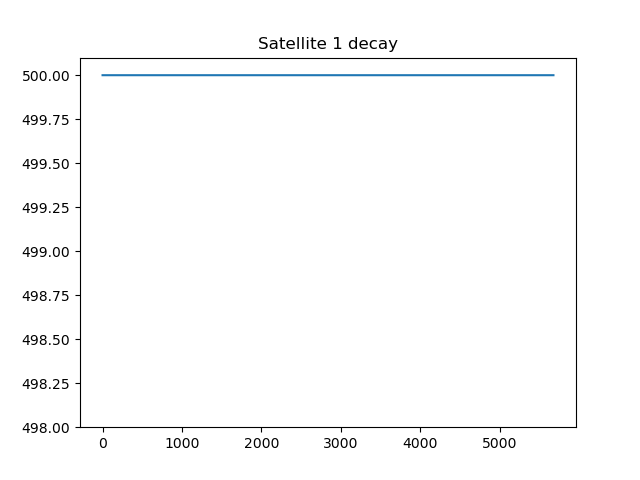
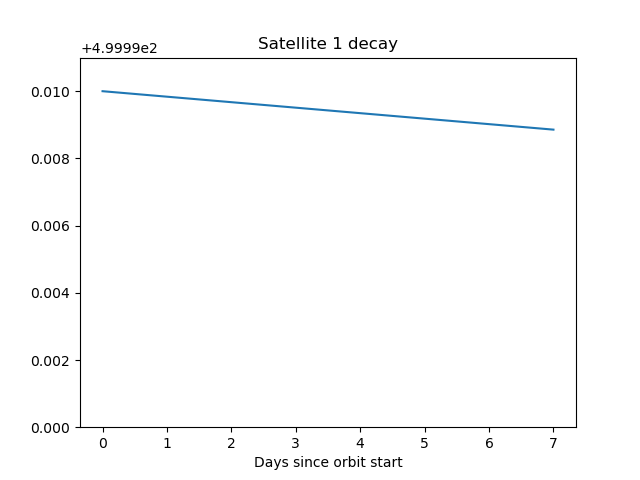
added velocity calculations and stuff

diff --git a/main.py b/main.py
@@ -28,12 +28,12 @@ earthMRadius = 6378
 # in m
 h = 500000
 sat2Velocity = sqrt(earthMu / (h / 1000 + earthMRadius)) + 0.001
-sat2Height = earthMu/(sat2Velocity**2)
+sat2Height = earthMu / (sat2Velocity ** 2)
 
 sat1 = Satellite(0.300, 0.300, 0.300, 30, h, sqrt(earthMu / (h / 1000 + earthMRadius)))
 sat2 = Satellite(0.300, 0.300, 0.300, 30, (sat2Height - earthMRadius) * 1000, sat2Velocity)
 
-print(sat2Height-earthMRadius)
+print(sat2Height - earthMRadius)
 
 
 def solve_kepler(M, e):
@@ -79,7 +79,7 @@ def orbitalLinearVelocity(h):
 def dragAcceleration(r, a, sat):
     assert isinstance(sat, Satellite)
 
-    altitude = r - earthMRadius * 1000 # Altitude (m)
+    altitude = r - earthMRadius * 1000  # Altitude (m)
     a2m = sat.area / sat.mass  # Area to mass ratio
     velocity = orbitalLinearVelocity(altitude)  # Velocity magnitude (m/s)
     atmDensity = Atmos.airDensity(altitude)  # Density (kg/m^3)
@@ -134,9 +134,9 @@ def calculate(sat):
     # cart_state = keplerToCartesian(orb_a, orb_e, orb_i, orb_rightA, orb_w, orb_m, earthMu)
     lifetime_flag = False
     total_duration = 0  # seconds
-    tstep = 60
+    tstep = 1
     current_altitude = orb_altitude
-    while lifetime_flag == False and total_duration < 60*60*24*33980.29:
+    while lifetime_flag == False and total_duration < 60 * 60 * 24 * 7:
         # update time step
         total_duration = total_duration + tstep
 
@@ -168,7 +168,6 @@ def calculate(sat):
             lifetime_flag = True
             lifetime = total_duration
 
-
     if lifetime_flag:
         lifetime_days = total_duration / 86400
         lifetime_orbits = total_duration / orbitPeriod(sat.height)
@@ -182,10 +181,12 @@ def calculate(sat):
 
     lifetime_orbits = total_duration / orbitPeriod(sat.height)
     # print("Lifetime orbits: " + str(lifetime_orbits))
-    print(total_duration/60/60/24)
+    print(total_duration / 60 / 60 / 24)
     return altitudes, mean_anomalies
 
 
+major_ticks = np.arange(0, 60 * 60 * 24 * 8, 60 * 60 * 24)
+major_labels = np.arange(0, 8, 1)
 
 print(str(sat1.velocity) + "km/s")
 print(str(sat2.velocity) + "km/s")
@@ -193,9 +194,11 @@ altitudesSat2, meanAnomaliesSat2 = calculate(sat2)
 
 plt.plot(altitudesSat2)
 print(altitudesSat2[-1])
-print(sat2.height/1000 - altitudesSat2[-1])
-plt.ylim(ymin=497, ymax=498.195)
+print(sat2.height / 1000 - altitudesSat2[-1])
+plt.ylim(ymin=498.18, ymax=498.195)
 plt.title("Satellite 2 decay")
+plt.xticks(major_ticks, labels=major_labels)
+plt.xlabel("Days since orbit start")
 plt.savefig("Sat2decay.png")
 plt.show()
 
@@ -203,15 +206,72 @@ altitudesSat1, meanAnomaliesSat1 = calculate(sat1)
 print(altitudesSat1[-1])
 print(sat1.height / 1000 - altitudesSat1[-1])
 plt.plot(altitudesSat1)
-plt.ylim(ymin=498, ymax=500.1)
+plt.ylim(ymin=499.99, ymax=500.001)
 plt.title("Satellite 1 decay")
+plt.xticks(major_ticks, labels=major_labels)
+plt.xlabel("Days since orbit start")
 plt.savefig("Sat1decay.png")
+# plt.xticks(minor_ticks, labels=None, minor=True)
 plt.show()
 
 plt.plot(meanAnomaliesSat2)
 plt.title("Mean anomalies 2")
+plt.xticks(major_ticks, labels=major_labels)
+plt.xlabel("Days since orbit start")
+plt.savefig("meanAnom2total.png")
 plt.show()
 
 plt.plot(meanAnomaliesSat1)
 plt.title("Mean anomalies 1")
+plt.xticks(major_ticks, labels=major_labels)
+plt.xlabel("Days since orbit start")
+plt.savefig("meanAnom1total.png")
+plt.show()
+
+plt.plot(meanAnomaliesSat2)
+plt.xlim(xmin=0, xmax=2 * 60 * 60)
+plt.xticks(np.arange(0, 3 * 60 * 60, 60 * 60), np.arange(0, 3, 1))
+plt.xlabel("Hours since orbit start")
+plt.title("mean anomaly sat 2")
+plt.savefig("meanAnom22hours.png")
+plt.show()
+
+plt.plot(meanAnomaliesSat1)
+plt.xlim(xmin=0, xmax=2 * 60 * 60)
+plt.title("mean anomaly sat 1")
+plt.xticks(np.arange(0, 3 * 60 * 60, 60 * 60), np.arange(0, 3, 1))
+plt.xlabel("Hours since orbit start")
+plt.savefig("meanAnom12hours.png")
+plt.show()
+
+
+def calcVelocity(height):
+    return sqrt(earthMu / (height + earthMRadius))
+
+
+velocities1 = []
+velocities2 = []
+
+for alt in altitudesSat1:
+    velocities1.append(calcVelocity(alt))
+
+for alt in altitudesSat2:
+    velocities2.append(calcVelocity(alt))
+
+print("Sat 1: min" + str(sat1.velocity) + "sat 1: max " + str(velocities1[-1]) + "diff: " + str(sat1.velocity - velocities1[-1]))
+plt.plot(velocities1)
+plt.title("velocities 1")
+plt.xticks(major_ticks, labels=major_labels)
+plt.xlabel("Days since orbit start")
+plt.ylim(ymin=7.61268, ymax=7.61269)
+plt.savefig("velocities1.png")
+plt.show()
+
+print("Sat 2: min" + str(sat2.velocity) + "sat 2: max " + str(velocities2[-1]) + "diff: " + str(sat2.velocity - velocities2[-1]))
+plt.plot(velocities2)
+plt.title("velocities 2")
+plt.xticks(major_ticks, labels=major_labels)
+plt.xlabel("Days since orbit start")
+plt.ylim(ymin=7.61368, ymax=7.61369)
+plt.savefig("velocities2.png")
 plt.show()
